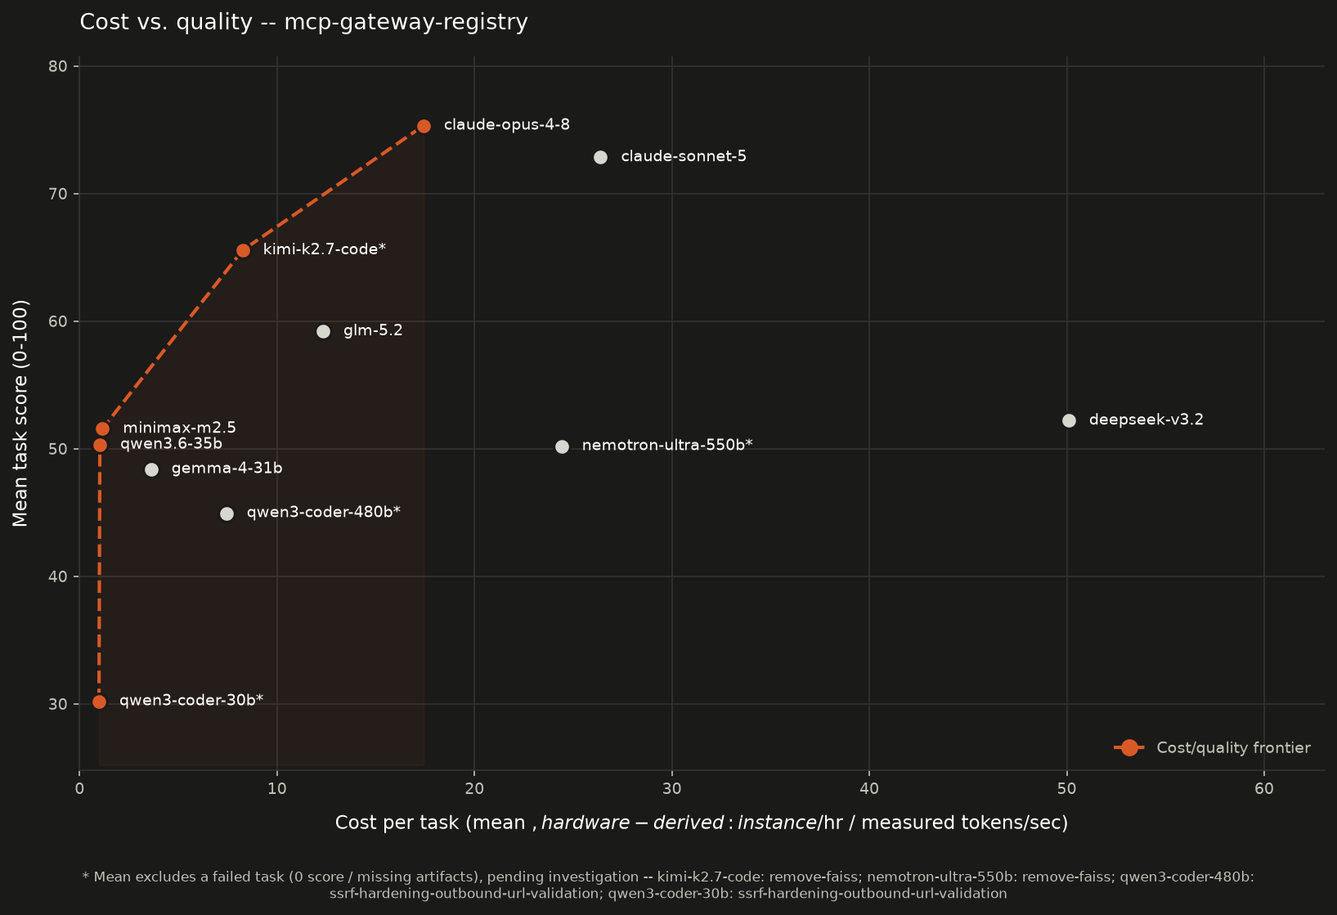
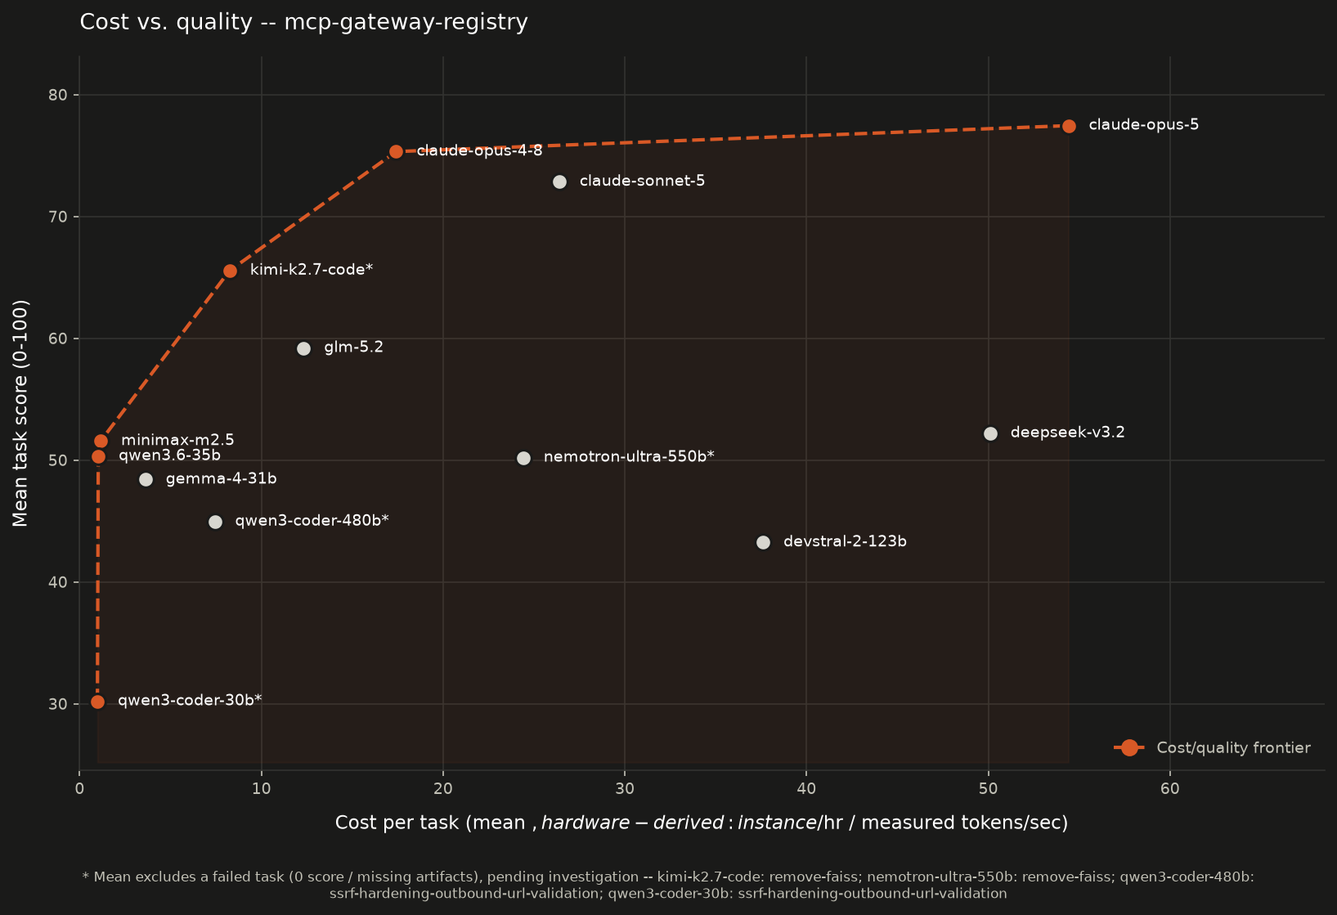
README: add Claude-Opus-5 and Devstral-2-123B benchmark results (13 models)
Update the results table, per-model leaderboard, cost/quality chart, and
narrative to include the two newly-merged models:

- Claude-Opus-5 (Path 1, Bedrock): 77.45 mean over 4/5 tasks (migrate not
  run), $54.41/task metered bill. Tops the quality table and extends the
  cost/quality frontier as its expensive extreme.
- Devstral-2-123B-Instruct (Path 3, 8x H200): 43.24 mean, 5/5, $37.61/task
  token-priced estimate (no throughput sweep, flagged with the token-est mark).

Regenerate both cost/quality charts (13 models, 6 on frontier) and refresh
all model counts, footnotes, and the frontier caption for consistency.

diff --git a/README.md b/README.md
@@ -16,7 +16,7 @@ Each task points the agent at a real GitHub repository and a real problem. The a
 
 ## Results: a worked example
 
-To show what the harness produces, we ran it against [agentic-community/mcp-gateway-registry](https://github.com/agentic-community/mcp-gateway-registry) at tag `1.24.4` -- **5 tasks**, each scored by the judge. Below is what we have measured so far: **11 models** across **Path 1** (Anthropic on Amazon Bedrock) and **Path 3** (self-hosted on vLLM, across an 8x H200 `p5en.48xlarge` and a single `g6e.12xlarge`); the cost/quality chart leads, the full task-by-task table and per-model leaderboard follow, and the exact models + hardware are listed under the table. Path 2 (open-weight on Bedrock via the LiteLLM proxy) is **coming soon** -- we publish only what we have measured here. (The `mcp-gateway-registry` dataset ships in [benchmarks/dataset/](benchmarks/dataset/mcp-gateway-registry.yaml) so you can reproduce the run; the generated artifacts themselves are not committed, so a customer's own runs never risk landing in version control. The only committed worked example under [benchmarks/swe-benchmark-data/](benchmarks/swe-benchmark-data/) is the trivial `Hello-World` sanity run.)
+To show what the harness produces, we ran it against [agentic-community/mcp-gateway-registry](https://github.com/agentic-community/mcp-gateway-registry) at tag `1.24.4` -- **5 tasks**, each scored by the judge. Below is what we have measured so far: **13 models** across **Path 1** (Anthropic on Amazon Bedrock) and **Path 3** (self-hosted on vLLM, across an 8x H200 `p5en.48xlarge` and a single `g6e.12xlarge`); the cost/quality chart leads, the full task-by-task table and per-model leaderboard follow, and the exact models + hardware are listed under the table. Path 2 (open-weight on Bedrock via the LiteLLM proxy) is **coming soon** -- we publish only what we have measured here. (The `mcp-gateway-registry` dataset ships in [benchmarks/dataset/](benchmarks/dataset/mcp-gateway-registry.yaml) so you can reproduce the run; the generated artifacts themselves are not committed, so a customer's own runs never risk landing in version control. The only committed worked example under [benchmarks/swe-benchmark-data/](benchmarks/swe-benchmark-data/) is the trivial `Hello-World` sanity run.)
 
 | # | Problem | Difficulty | Source |
 |---|---------|-----------|--------|
@@ -26,40 +26,42 @@ To show what the harness produces, we ran it against [agentic-community/mcp-gate
 | 4 | `migrate-ecs-env-vars-to-secrets-manager` | High | Upstream [#1134](https://github.com/agentic-community/mcp-gateway-registry/issues/1134) |
 | 5 | `replace-keycloak-db-password-with-rds-iam` | High | Upstream [#1303](https://github.com/agentic-community/mcp-gateway-registry/issues/1303) |
 
-**Models benchmarked so far:** **Path 1 (Bedrock):** Claude-Opus-4.8, Claude-Sonnet-5. **Path 3 (self-hosted on vLLM):** Kimi-K2.7-Code, GLM-5.2, DeepSeek-V3.2, MiniMax-M2.5, Nemotron-Ultra-550B, and Qwen3-Coder-480B-A35B-Instruct (all on 8x H200 / `p5en.48xlarge`), plus Qwen3.6-35B-A3B, Qwen3-Coder-30B-A3B-Instruct, Qwen3-Coder-Next, and Gemma-4-31B-it (on `g6e.12xlarge` / 4x L40S). **Coming soon:** Claude Haiku on Bedrock (Path 1) and Path 2 (open-weight on Bedrock via the LiteLLM proxy -- Mistral, …).
+**Models benchmarked so far:** **Path 1 (Bedrock):** Claude-Opus-5, Claude-Opus-4.8, Claude-Sonnet-5. **Path 3 (self-hosted on vLLM):** Kimi-K2.7-Code, GLM-5.2, DeepSeek-V3.2, MiniMax-M2.5, Nemotron-Ultra-550B, Qwen3-Coder-480B-A35B-Instruct, and Devstral-2-123B-Instruct (all on 8x H200 / `p5en.48xlarge`), plus Qwen3.6-35B-A3B, Qwen3-Coder-30B-A3B-Instruct, Qwen3-Coder-Next, and Gemma-4-31B-it (on `g6e.12xlarge` / 4x L40S). **Coming soon:** Claude Haiku on Bedrock (Path 1) and Path 2 (open-weight on Bedrock via the LiteLLM proxy -- Mistral, …).
 
 ### Cost vs. quality
 
 ![Cost vs. quality scatter: mean estimated cost per task against mean task score, for the self-hosted models, with the cost/quality frontier highlighted](docs/images/cost-quality.png)
 
-Mean cost per task (x) against mean task score (y), one point per model. For **self-hosted** models with a throughput sweep, cost is **hardware-derived**: the model's blended cost per token (instance $/hr / measured tokens/sec, see [cost-per-task-methodology.md](self-hosted/vllm/cost-per-task-methodology.md)) times its *actual* input+output tokens per task, averaged over non-failed tasks. The two **Anthropic** points (Opus-4.8, Sonnet-5) are **real token-metered Bedrock bills**; **DeepSeek-V3.2** and **Nemotron-Ultra-550B** have no sweep so use a token-priced estimate (`‡`) -- comparable as spend, different in kind. The cost/quality frontier runs **Qwen3-Coder-30B ($0.98 / 30.20) -> Qwen3.6-35B ($1.03 / 50.32) -> MiniMax-M2.5 ($1.16 / 51.56) -> Kimi-K2.7-Code ($8.26 / 65.55) -> Claude-Opus-4.8 ($17.42 / 75.32)**. Everything else is **dominated**: notably Claude-Sonnet-5 (72.84 but $26.39), GLM-5.2 (59.20 at $12.33, beaten by Kimi on both axes), Gemma-4-31B, Qwen3-Coder-480B ($7.43), Nemotron-Ultra-550B, and DeepSeek-V3.2 ($50.10 est., the priciest). Qwen3-Coder-Next is omitted (not viable on this node). A model's mean excludes any 0-score failed task (footnote ⁵). Regenerate with `uv run scripts/plot_cost_quality.py` (add `--dark`) from `benchmarks/`.
+Mean cost per task (x) against mean task score (y), one point per model. For **self-hosted** models with a throughput sweep, cost is **hardware-derived**: the model's blended cost per token (instance $/hr / measured tokens/sec, see [cost-per-task-methodology.md](self-hosted/vllm/cost-per-task-methodology.md)) times its *actual* input+output tokens per task, averaged over non-failed tasks. The three **Anthropic** points (Opus-5, Opus-4.8, Sonnet-5) are **real token-metered Bedrock bills**; **DeepSeek-V3.2**, **Nemotron-Ultra-550B**, and **Devstral-2-123B** have no sweep so use a token-priced estimate (`‡`) -- comparable as spend, different in kind. The cost/quality frontier runs **Qwen3-Coder-30B ($0.98 / 30.20) -> Qwen3.6-35B ($1.03 / 50.32) -> MiniMax-M2.5 ($1.16 / 51.56) -> Kimi-K2.7-Code ($8.26 / 65.55) -> Claude-Opus-4.8 ($17.42 / 75.32) -> Claude-Opus-5 ($54.41 / 77.45)**. Everything else is **dominated**: notably Claude-Sonnet-5 (72.84 but $26.39), GLM-5.2 (59.20 at $12.33, beaten by Kimi on both axes), Gemma-4-31B, Qwen3-Coder-480B ($7.43), Devstral-2-123B ($37.61 est.), Nemotron-Ultra-550B, and DeepSeek-V3.2 ($50.10 est., the priciest). Opus-5 is the top-quality point but its $54.41/task makes it the frontier's expensive extreme -- Opus-4.8 delivers nearly the same quality for a third of the cost. Qwen3-Coder-Next is omitted (not viable on this node). A model's mean excludes any 0-score failed task (footnote ⁵). Regenerate with `uv run scripts/plot_cost_quality.py` (add `--dark`) from `benchmarks/`.
 
 ### Results -- 5 tasks x models
 
-All cells are task scores (0-100), the mean of the artifact totals per (task x model). These are **`/swe2` runs -- design *and* implementation** (six artifacts: the four design docs plus `patch.diff` + `implementation.md`), scored by the same judge (`codex exec`, `gpt-5.6-sol`, high reasoning effort). **Claude-Opus-4.8 and Claude-Sonnet-5** are **Path 1** results (Anthropic on Amazon Bedrock); every other column is **Path 3, self-hosted via vLLM** (hardware differs by model size -- see the row under the table). Columns are ordered by mean score. Bold = top score in row. Path 2 (open-weight on Bedrock via LiteLLM) is still **coming soon**.
+All cells are task scores (0-100), the mean of the artifact totals per (task x model). These are **`/swe2` runs -- design *and* implementation** (six artifacts: the four design docs plus `patch.diff` + `implementation.md`), scored by the same judge (`codex exec`, `gpt-5.6-sol`, high reasoning effort). **Claude-Opus-5, Claude-Opus-4.8, and Claude-Sonnet-5** are **Path 1** results (Anthropic on Amazon Bedrock); every other column is **Path 3, self-hosted via vLLM** (hardware differs by model size -- see the row under the table). Columns are ordered by mean score. Bold = top score in row. Path 2 (open-weight on Bedrock via LiteLLM) is still **coming soon**.
 
-| Task | Diff. | Opus-4.8⁹ | Sonnet-5⁹ | Kimi-K2.7 | GLM-5.2⁶ | DeepSeek-V3.2 | MiniMax-M2.5 | Qwen3.6-35B | Nemotron-550B | Gemma-4-31B | Qwen3-Coder-480B⁷ | Qwen3-Coder-30B |
-|------|-------|----------:|----------:|----------:|---------:|--------------:|-------------:|------------:|--------------:|------------:|------------------:|----------------:|
-| `remove-faiss` | Med | 69.2 | **72.8** | 0.0 ⁵ | 54.0 | 48.2 | 44.2 | 53.2 | 0.0 ⁵ | 38.0 | 45.6 | 32.0 |
-| `remove-efs-from-terraform-aws-ecs` | Med | 79.6 | **86.8** | 70.8 | 64.0 | 59.0 | 62.0 | 65.2 | 55.4 | 53.6 | 55.4 | 28.2 |
-| `ssrf-hardening-outbound-url-validation` | Med | **80.6** | 68.6 | 72.0 | 66.8 | 56.4 | 58.2 | 41.6 | 52.4 | 64.6 | 0.0 ⁵ | 0.0 ⁵ |
-| `migrate-ecs-env-vars-to-secrets-manager` | High | **70.6** | 66.0 | 67.2 | 54.2 | 51.2 | 53.6 | 46.4 | 50.0 | 48.4 | 41.0 | 30.8 |
-| `replace-keycloak-db-password-with-rds-iam` | High | **76.6** | 70.0 | 52.2 | 57.0 | 46.2 | 39.8 | 45.2 | 43.0 | 37.4 | 37.8 | 29.8 |
-| **Mean (excl. failed⁵)** | | **75.32** | 72.84 | 65.55 | 59.20 | 52.20 | 51.56 | 50.32 | 50.20 | 48.40 | 44.95 | 30.20 |
+| Task | Diff. | Opus-5⁸ | Opus-4.8⁹ | Sonnet-5⁹ | Kimi-K2.7 | GLM-5.2⁶ | DeepSeek-V3.2 | MiniMax-M2.5 | Qwen3.6-35B | Nemotron-550B | Gemma-4-31B | Qwen3-Coder-480B⁷ | Devstral-2-123B | Qwen3-Coder-30B |
+|------|-------|--------:|----------:|----------:|----------:|---------:|--------------:|-------------:|------------:|--------------:|------------:|------------------:|----------------:|----------------:|
+| `remove-faiss` | Med | 69.6 | 69.2 | **72.8** | 0.0 ⁵ | 54.0 | 48.2 | 44.2 | 53.2 | 0.0 ⁵ | 38.0 | 45.6 | 40.2 | 32.0 |
+| `remove-efs-from-terraform-aws-ecs` | Med | **89.2** | 79.6 | 86.8 | 70.8 | 64.0 | 59.0 | 62.0 | 65.2 | 55.4 | 53.6 | 55.4 | 49.6 | 28.2 |
+| `ssrf-hardening-outbound-url-validation` | Med | 78.6 | **80.6** | 68.6 | 72.0 | 66.8 | 56.4 | 58.2 | 41.6 | 52.4 | 64.6 | 0.0 ⁵ | 47.2 | 0.0 ⁵ |
+| `migrate-ecs-env-vars-to-secrets-manager` | High | n/a⁸ | **70.6** | 66.0 | 67.2 | 54.2 | 51.2 | 53.6 | 46.4 | 50.0 | 48.4 | 41.0 | 38.2 | 30.8 |
+| `replace-keycloak-db-password-with-rds-iam` | High | 72.4 | **76.6** | 70.0 | 52.2 | 57.0 | 46.2 | 39.8 | 45.2 | 43.0 | 37.4 | 37.8 | 41.0 | 29.8 |
+| **Mean (excl. failed⁵)** | | **77.45** | 75.32 | 72.84 | 65.55 | 59.20 | 52.20 | 51.56 | 50.32 | 50.20 | 48.40 | 44.95 | 43.24 | 30.20 |
 
-The **Mean** row excludes any task that scored 0 -- a genuine model failure (missing artifacts), an unresolved anomaly rather than a quality measurement, so it is left out of the average **pending further investigation** and flagged with `⁵`. Per-task 0.0 cells are still shown so the failure is visible. No-failure (5/5): Opus-4.8, Sonnet-5, GLM-5.2, DeepSeek-V3.2, MiniMax-M2.5, Qwen3.6-35B, Gemma-4-31B. 4/5 (one failed): Kimi (`remove-faiss`), Nemotron-550B (`remove-faiss`), Qwen3-Coder-480B (`ssrf`), Qwen3-Coder-30B (`ssrf`).
+The **Mean** row excludes any task that scored 0 -- a genuine model failure (missing artifacts), an unresolved anomaly rather than a quality measurement, so it is left out of the average **pending further investigation** and flagged with `⁵`. Per-task 0.0 cells are still shown so the failure is visible. No-failure (5/5): Opus-4.8, Sonnet-5, GLM-5.2, DeepSeek-V3.2, MiniMax-M2.5, Qwen3.6-35B, Gemma-4-31B, Devstral-2-123B. 4/5 (one failed): Kimi (`remove-faiss`), Nemotron-550B (`remove-faiss`), Qwen3-Coder-480B (`ssrf`), Qwen3-Coder-30B (`ssrf`). **Opus-5 ran 4 tasks** (`migrate` not run) -- its mean is over those 4; see `⁸`.
 
-**Hardware:** Kimi-K2.7-Code (1.06T-param MoE, ~1 TB weights) ran on **8x H200** (`p5en.48xlarge`) at its full **131,072-token (128K) native context window**; GLM-5.2 (744B MoE / 40B active, ~750 GB FP8 weights), MiniMax-M2.5, and Qwen3-Coder-480B (480B MoE / 35B active, FP8, TP=4) also ran on **8x H200** (`p5en.48xlarge`); the three smaller Qwen models (3B-active MoE) and Gemma-4-31B (dense, ~63 GB) ran on a single **`g6e.12xlarge`** (4x L40S) at a 200K window. All via vLLM. Gemma-4-31B is dense and slow, so it used a raised per-task timeout (`--timeout-seconds 3600`); the default 1800s was not enough for it to return. Note Kimi's 128K window is below the harness's 200K agentic-coding guideline, yet it completed 4 of 5 tasks -- the one failure (`keycloak-rds-iam`) was a turn-cap timeout, not a context overflow.
+**Hardware:** Kimi-K2.7-Code (1.06T-param MoE, ~1 TB weights) ran on **8x H200** (`p5en.48xlarge`) at its full **131,072-token (128K) native context window**; GLM-5.2 (744B MoE / 40B active, ~750 GB FP8 weights), MiniMax-M2.5, Qwen3-Coder-480B (480B MoE / 35B active, FP8, TP=4), DeepSeek-V3.2, Nemotron-Ultra-550B, and Devstral-2-123B (123B dense, 256K window) also ran on **8x H200** (`p5en.48xlarge`); the three smaller Qwen models (3B-active MoE) and Gemma-4-31B (dense, ~63 GB) ran on a single **`g6e.12xlarge`** (4x L40S) at a 200K window. All via vLLM. Gemma-4-31B is dense and slow, so it used a raised per-task timeout (`--timeout-seconds 3600`); the default 1800s was not enough for it to return. Note Kimi's 128K window is below the harness's 200K agentic-coding guideline, yet it completed 4 of 5 tasks -- the one failure (`keycloak-rds-iam`) was a turn-cap timeout, not a context overflow.
 
 ⁴ Qwen3-Coder-Next (79.6B, ~160 GB weights) **could not be benchmarked on the `g6e.12xlarge`.** There the weights leave room for only a ~16K context window, but agentic coding tasks need 100K-250K input tokens per request, so every task overflows the window on the first prompt. It needs a larger-VRAM node (e.g. `g6e.48xlarge`) to serve a >=200K window. The `/benchmark` skill enforces a 200K-minimum gate by default as a conservative guideline -- Kimi's 128K run shows a window somewhat below 200K can still work when the tasks fit, but 16K cannot. See [self-hosted/vllm/models/qwen3-coder-next.md](self-hosted/vllm/models/qwen3-coder-next.md).
 
-⁵ **Genuine model failures, scored 0.** On these `/swe2` runs the failures are: Kimi-K2.7-Code on `remove-faiss`, Nemotron-Ultra-550B on `remove-faiss`, Qwen3-Coder-480B on `ssrf`, and Qwen3-Coder-30B on `ssrf`. Each failed to produce a scorable artifact set (typically the model exhausted its turn budget on the implementation step without landing edits, so no `patch.diff`). The judge records a missing/empty-artifact folder as a 0 with a `MODEL FAILURE` verdict rather than dropping it. The **Mean** row is over the tasks each model completed, excluding those failures: 5/5 for Opus-4.8, Sonnet-5, GLM-5.2, DeepSeek-V3.2, MiniMax-M2.5, Qwen3.6-35B, Gemma-4-31B; 4/5 for Kimi, Nemotron-Ultra-550B, Qwen3-Coder-480B, and Qwen3-Coder-30B.
+⁵ **Genuine model failures, scored 0.** On these `/swe2` runs the failures are: Kimi-K2.7-Code on `remove-faiss`, Nemotron-Ultra-550B on `remove-faiss`, Qwen3-Coder-480B on `ssrf`, and Qwen3-Coder-30B on `ssrf`. Each failed to produce a scorable artifact set (typically the model exhausted its turn budget on the implementation step without landing edits, so no `patch.diff`). The judge records a missing/empty-artifact folder as a 0 with a `MODEL FAILURE` verdict rather than dropping it. The **Mean** row is over the tasks each model completed, excluding those failures: 5/5 for Opus-4.8, Sonnet-5, GLM-5.2, DeepSeek-V3.2, MiniMax-M2.5, Qwen3.6-35B, Gemma-4-31B, Devstral-2-123B; 4/5 for Kimi, Nemotron-Ultra-550B, Qwen3-Coder-480B, and Qwen3-Coder-30B; Opus-5 ran 4/4 (the `migrate` task was not run -- see `⁸`).
 
 ⁶ **GLM-5.2 ran with more headroom than the others -- not strictly apples-to-apples.** GLM-5.2 (`zai-org/GLM-5.2-FP8`, 744B MoE / 40B active, ~750 GB FP8 weights) was served on **8x H200** at a **300K context window** (~$12.33/task, see the cost section). It scores 59.20 over 5/5 -- behind Kimi (65.55) on the same box. Treat cross-instance comparisons as indicative until normalized.
 
 ⁷ **Qwen3-Coder-480B intermittently fails to produce artifacts -- the failure is nondeterministic, not task-specific.** Qwen3-Coder-480B (`Qwen/Qwen3-Coder-480B-A35B-Instruct-FP8`, 480B MoE / 35B active) was served on the **8x H200** node at **TP=4** (a block-FP8 MoE sharding constraint forces TP=4, not 8 -- see [its model guide](self-hosted/vllm/models/qwen3-coder-480b.md)), 200K window. Like the smaller Qwen3-Coder-30B, it periodically explores/edits the repo instead of completing the artifact chain (or exhausts the turn cap), scoring 0 on some tasks. It is a harness-conformance instability of a coder-tuned model, not a serving or context problem.
 
-⁹ **Claude-Opus-4.8 and Claude-Sonnet-5 are Path 1 (Bedrock) results -- their cost is a real metered API bill, not hardware-derived.** Both were run through Amazon Bedrock (no self-hosting), so their `$/task` ($17.42 and $26.39) is the actual token-metered charge, whereas a self-hosted model's `$/task` is `instance $/hr / measured tokens/sec` x tokens (see the cost section). Comparable as "what you would pay," but different in provenance. Opus tops the quality table (75.32 over 5/5) and anchors the top of the frontier; the best open-weight model is Kimi-K2.7-Code (65.55) at ~$8/task. Sonnet-5 (72.84) is a close second on quality but pricier per task ($26.39 -- more verbose implementations, more output tokens), so it sits just off the frontier. On this benchmark the best-quality options are the frontier API models.
+⁸ **Claude-Opus-5 ran only 4 of the 5 tasks** (`migrate-ecs-env-vars-to-secrets-manager` was not run), so its 77.45 mean is over those 4 -- not strictly comparable to the 5-task means until it is completed. It is a Path 1 (Bedrock) result like Opus-4.8/Sonnet-5, so its **$54.41/task is a real metered API bill** (its long, thorough implementations run up output tokens -- the most expensive per task measured). It tops the quality table but sits well right of the frontier on cost.
+
+⁹ **Claude-Opus-4.8 and Claude-Sonnet-5 are Path 1 (Bedrock) results -- their cost is a real metered API bill, not hardware-derived.** Both were run through Amazon Bedrock (no self-hosting), so their `$/task` ($17.42 and $26.39) is the actual token-metered charge (read from each run's `total_cost_usd`), whereas a self-hosted model's `$/task` is `instance $/hr / measured tokens/sec` x tokens (see the cost section). Comparable as "what you would pay," but different in provenance. Opus-4.8 is on the frontier at $17.42; the best open-weight model is Kimi-K2.7-Code (65.55) at ~$8/task. Sonnet-5 (72.84) is a close second on quality but pricier per task ($26.39 -- more verbose implementations, more output tokens), so it sits just off the frontier.
 
 ### Per-model leaderboard (so far)
 
@@ -67,21 +69,23 @@ Mean score is over the tasks each model completed (any 0-score failed task is ex
 
 | Rank | Model | Params (active) | Hardware | Mean score | $/task | Tasks scored |
 |-----:|-------|----------------|----------|-----------:|-------:|-------------:|
-| 1 | Claude-Opus-4.8⁹ | -- (Bedrock) | Amazon Bedrock (Path 1) | **75.32** | $17.42† | 5/5 |
-| 2 | Claude-Sonnet-5⁹ | -- (Bedrock) | Amazon Bedrock (Path 1) | **72.84** | $26.39† | 5/5 |
-| 3 | Kimi-K2.7-Code | 1,058.6B (MoE) | 8x H200 | **65.55** | $8.26 | 4/5 |
-| 4 | GLM-5.2⁶ | 744B (40B) | 8x H200 | **59.20** | $12.33 | 5/5 |
-| 5 | DeepSeek-V3.2 | 671B (37B) | 8x H200 | **52.20** | $50.10‡ | 5/5 |
-| 6 | MiniMax-M2.5 | 230B (10B) | 8x H200 (TP=4) | **51.56** | $1.16 | 5/5 |
-| 7 | Qwen3.6-35B-A3B | 35.9B (3B) | g6e.12xlarge | **50.32** | $1.03 | 5/5 |
-| 8 | Nemotron-Ultra-550B | 550B (dense) | 8x H200 | **50.20** | $24.41‡ | 4/5 |
-| 9 | Gemma-4-31B-it | 31B (dense) | g6e.12xlarge | **48.40** | $3.62 | 5/5 |
-| 10 | Qwen3-Coder-480B-A35B-Instruct⁷ | 480B (35B) | 8x H200 (TP=4) | **44.95** | $7.43 | 4/5 |
-| 11 | Qwen3-Coder-30B-A3B-Instruct | 30.5B (3B) | g6e.12xlarge | **30.20** | **$0.98** | 4/5 |
+| 1 | Claude-Opus-5⁸ | -- (Bedrock) | Amazon Bedrock (Path 1) | **77.45** | $54.41† | 4/5 |
+| 2 | Claude-Opus-4.8⁹ | -- (Bedrock) | Amazon Bedrock (Path 1) | **75.32** | $17.42† | 5/5 |
+| 3 | Claude-Sonnet-5⁹ | -- (Bedrock) | Amazon Bedrock (Path 1) | **72.84** | $26.39† | 5/5 |
+| 4 | Kimi-K2.7-Code | 1,058.6B (MoE) | 8x H200 | **65.55** | $8.26 | 4/5 |
+| 5 | GLM-5.2⁶ | 744B (40B) | 8x H200 | **59.20** | $12.33 | 5/5 |
+| 6 | DeepSeek-V3.2 | 671B (37B) | 8x H200 | **52.20** | $50.10‡ | 5/5 |
+| 7 | MiniMax-M2.5 | 230B (10B) | 8x H200 (TP=4) | **51.56** | $1.16 | 5/5 |
+| 8 | Qwen3.6-35B-A3B | 35.9B (3B) | g6e.12xlarge | **50.32** | $1.03 | 5/5 |
+| 9 | Nemotron-Ultra-550B | 550B (dense) | 8x H200 | **50.20** | $24.41‡ | 4/5 |
+| 10 | Gemma-4-31B-it | 31B (dense) | g6e.12xlarge | **48.40** | $3.62 | 5/5 |
+| 11 | Qwen3-Coder-480B-A35B-Instruct⁷ | 480B (35B) | 8x H200 (TP=4) | **44.95** | $7.43 | 4/5 |
+| 12 | Devstral-2-123B-Instruct | 123B (dense) | 8x H200 | **43.24** | $37.61‡ | 5/5 |
+| 13 | Qwen3-Coder-30B-A3B-Instruct | 30.5B (3B) | g6e.12xlarge | **30.20** | **$0.98** | 4/5 |
 | - | Qwen3-Coder-Next | 79.6B (3B) | (needs bigger node) | not viable on g6e.12xlarge | -- | 0 |
 
-† Claude-Opus-4.8 / Claude-Sonnet-5 `$/task` is a real Bedrock **API bill** (token-metered), not a hardware-derived figure; see footnote `⁹`.
-‡ DeepSeek-V3.2 and Nemotron-Ultra-550B are self-hosted but have **no throughput sweep**, so their `$/task` is the harness's **token-priced estimate**, not the hardware-derived (`instance $/hr / tokens-sec`) figure used for the other self-hosted rows -- treat those two costs as indicative and higher-variance until a sweep is run.
+† Claude-Opus-5 / Claude-Opus-4.8 / Claude-Sonnet-5 `$/task` is a real Bedrock **API bill** (token-metered), not a hardware-derived figure; see footnotes `⁸` and `⁹`.
+‡ DeepSeek-V3.2, Nemotron-Ultra-550B, and Devstral-2-123B are self-hosted but have **no throughput sweep**, so their `$/task` is the harness's **token-priced estimate**, not the hardware-derived (`instance $/hr / tokens-sec`) figure used for the other self-hosted rows -- treat those three costs as indicative and higher-variance until a sweep is run.
 
 **Coming soon:** Claude Haiku on Bedrock (Path 1) and the open-weight Bedrock models via the LiteLLM proxy (Path 2 -- Mistral, …).
 
@@ -89,10 +93,10 @@ Mean score is over the tasks each model completed (any 0-score failed task is ex
 
 These are early self-hosted numbers on differing hardware; treat them as a starting point, not a final ranking. Cross-path comparisons wait until the Bedrock paths are run.
 
-- **The two Anthropic models top the table:** Claude-Opus-4.8 (75.32 over 5/5) and Claude-Sonnet-5 (72.84 over 5/5) lead every self-hosted model by a clear margin -- the best open-weight is Kimi-K2.7-Code at 65.55 (~$8/task, 4/5). Opus is also on the cost/quality frontier at $17.42; Sonnet-5 scores nearly as high but costs more per task ($26.39, its verbose implementations run up output tokens), so it sits just off the frontier.
+- **The Anthropic models top the table:** Claude-Opus-5 (77.45, but over 4/5 -- see ⁸), Claude-Opus-4.8 (75.32 over 5/5), and Claude-Sonnet-5 (72.84 over 5/5) lead every self-hosted model by a clear margin -- the best open-weight is Kimi-K2.7-Code at 65.55 (~$8/task, 4/5). Opus-4.8 is the best-value frontier point at $17.42; Opus-5 edges it on quality but costs 3x as much ($54.41/task, its long implementations run up output tokens), and Sonnet-5 scores nearly as high but costs more per task ($26.39), so it sits just off the frontier.
 - **Qwen3.6-35B is the value story:** on one mid-range GPU node (a single g6e.12xlarge) it scores 50.32 over all 5 tasks with no failures at a **hardware-derived $1.03 per task** -- roughly a median score at a small fraction of the frontier models' cost, and on the cost/quality frontier.
 - **MiniMax-M2.5 is the best quality-per-dollar in the upper-middle:** 51.56 over 5/5 at **$1.16/task** -- it beats the dense Gemma-4-31B ($3.62) and the much pricier Qwen3-Coder-480B ($7.43) and DeepSeek-V3.2 ($50.10 est.) while costing a fraction, anchoring the frontier just above Qwen3.6-35B.
-- **Cost is hardware-derived where a throughput sweep exists.** For the self-hosted models with a sweep, $/task is `instance $/hr / measured tokens/sec` times that model's real per-task token load; the two Anthropic rows are real Bedrock API bills; DeepSeek-V3.2 and Nemotron-Ultra-550B lack a sweep and fall back to a token-priced estimate (flagged `‡`). See [cost-per-task-methodology.md](self-hosted/vllm/cost-per-task-methodology.md).
+- **Cost is hardware-derived where a throughput sweep exists.** For the self-hosted models with a sweep, $/task is `instance $/hr / measured tokens/sec` times that model's real per-task token load; the three Anthropic rows are real Bedrock API bills; DeepSeek-V3.2, Nemotron-Ultra-550B, and Devstral-2-123B lack a sweep and fall back to a token-priced estimate (flagged `‡`). See [cost-per-task-methodology.md](self-hosted/vllm/cost-per-task-methodology.md).
 - **The judge is strict, and implementation is harder than design.** These `/swe2` runs score design *and* code; scores in the 30-75 range reflect artifacts that are serviceable but often light on the specificity, risk-analysis, and complete implementation the rubric rewards. Coder-tuned models (Qwen3-Coder-30B/480B) are the least reliable here -- they tend to burn the turn budget implementing instead of completing the full artifact set, producing the 0-score failures.
 - **MoE economics are the reason to self-host these.** Nearly every open-weight model here is a mixture-of-experts, so per-token compute (and cost) tracks the active-expert count, not the total -- the regime where a fixed-cost GPU node can beat per-token API pricing under load. The 3B-active Qwen MoEs on a single L40S node are the clearest example: ~$1/task.
 
